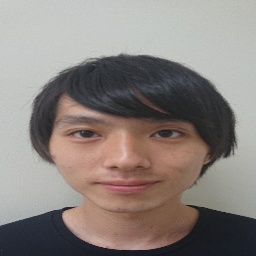
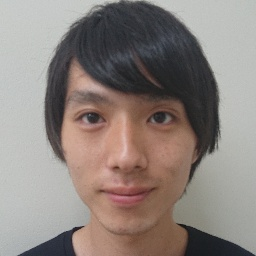
crop face as square image

diff --git a/find_face.py b/find_face.py
@@ -1,6 +1,8 @@
 import cv2
 import argparse
 
+# python find_face.py --image_file "number".jpg
+
 # 基本的なモデルパラメータ
 FLAGS = None
 
@@ -66,7 +68,7 @@ cascade_path = "haarcascade_frontalface_default.xml"
 
 # 使用ファイルと入出力ディレクトリ
 image_path  = "./img/"  + FLAGS.image_file
-output_path = "./sized_img/"
+output_path = "./face_img/"
 
 # ディレクトリ確認用(うまく行かなかった時用)
 import os
@@ -75,6 +77,8 @@ import os
 
 #ファイル読み込み
 image = cv2.imread(image_path)
+
+width, height = image.shape[:2]
 
 #グレースケール変換
 image_gray = cv2.cvtColor(image, cv2.COLOR_BGR2GRAY)
@@ -96,13 +100,23 @@ facerect = cascade.detectMultiScale(image_gray, scaleFactor=FLAGS.scale, minNeig
 
 color = (255, 255, 255) #白
 
+x1 = x2 = y1 = y2 = 0
+
 #顔部分を切り取る
 for x,y,w,h in facerect:
-    faced_image = image[0:y+h+(int)(y/2), x-(int)(x/2):x+w+(int)(x/2)]
+    # desire image size as square
+    extend = h
+    print(x,y,w,h)
+    x1 = x - x
+    x2 = x + w + x if x2 < width else x + w
+    # y1 = y - (int)(extend/6) if y1 > 0 else 0
+    # y2 = y + h + (int)(extend/4) if y2 < height else y + h
+    y1 = y - (int)(y*2/5)
+    y2 = y1 + x2 - x1
+    print(x1, x2, y1, y2)
+    # faced_image = image[y-(int)(extend/3):y+h+(int)(extend/3), x1:x+w+(int)(extend/3)]
+    faced_image = image[y1:y2, x1:x2]
     # faced_image = image[y:y+h, x:x+w]
-    print(y)
-    print(y-h-h)
-    print(y+h+h)
 
 # 検出した場合
 if len(facerect) > 0:

diff --git a/resize.py b/resize.py
@@ -4,11 +4,15 @@ import cv2
 import numpy as np
 import os
 import sys
+from PIL import Image
+
+# python resize.py "number".jpg
 
 # def resize_image(sys.argv):
 
 original_img = sys.argv[1]
-img_dir = './sized_img'
+img_dir = './face_img'
+save_dir = './sized_img'
 
 original_img = os.path.join(img_dir, original_img)
 print(original_img)
@@ -20,4 +24,5 @@ newImg = cv2.resize(img, size)
 
 print(newImg.shape[:2])
 
-cv2.imwrite('./img/1.jpg', newImg)
+cv2.imwrite(os.path.join(save_dir, original_img), original_img)
+# cv2.imwrite('./img/1.jpg', newImg)
